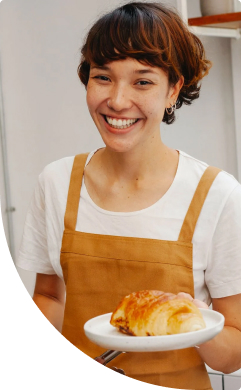
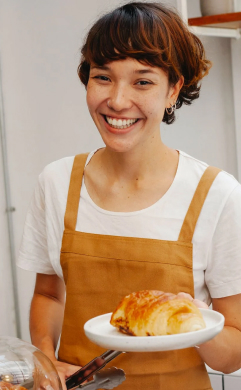
Add files via upload

Changed region(s): [[0.0, 0.5231, 0.8133, 1.0], [0.9876, 0.9846, 1.0, 1.0], [0.9876, 0.0, 1.0, 0.0308]]

diff --git a/css/style.css b/css/style.css
@@ -27,10 +27,12 @@
 }
 
 :root {
-	--color-brand-light: #819b57;
+	--color-brand-normal: #819b57;
 	--color-brand-dark: #465929;
 	--color-primary-dark: #31261a;
 	--color-primary-light: #faf4ea;
+	--color-brand-light: #cfcfbc;
+	--color-secondary-dark: #a28268;
 }
 /* Base */
 * {
@@ -38,6 +40,7 @@
 }
 body {
 	color: var(--color-primary-dark);
+	background-color: var(--color-primary-light);
 	font-family: "Poppins", sans-serif;
 	font-size: 18px;
 	font-weight: 400;
@@ -82,8 +85,8 @@ ul {
 	padding: 16px 32px;
 	color: var(--color-primary-light);
 	font-weight: 600;
-	background: var(--color-brand-light);
-	border: 2px solid var(--color-brand-light);
+	background: var(--color-brand-normal);
+	border: 2px solid var(--color-brand-normal);
 	border-radius: 8px;
 	cursor: pointer;
 }
@@ -100,7 +103,7 @@ ul {
 }
 
 .link:hover {
-	color: var(--color-brand-light);
+	color: var(--color-brand-normal);
 }
 /* header */
 .header-menu {
@@ -126,6 +129,10 @@ ul {
 /* Hero section */
 .hero-section {
 	padding: 272px 0;
+	background-image: url("../images/hero-background.jpg");
+	background-repeat: no-repeat;
+	background-position: center top;
+	background-size: cover;
 }
 .hero-title {
 	margin-bottom: 0;
@@ -137,12 +144,12 @@ ul {
 }
 
 .hero-title .accent {
-	color: var(--color-brand-light);
+	color: var(--color-brand-normal);
 }
 /* Advantages section */
 .advanteges-section {
 	padding: 16px 0;
-	background-color: var(--color-brand-light);
+	background-color: var(--color-brand-normal);
 }
 .advanteges-list {
 	gap: 40px;
@@ -159,7 +166,10 @@ ul {
 /* Title section */
 
 .section-title .accent {
-	color: var(--color-brand-light);
+	color: var(--color-brand-normal);
+}
+.section-title.centered {
+	text-align: center;
 }
 .section-title {
 	font-size: 64px;
@@ -183,19 +193,32 @@ ul {
 }
 .traditions-text .uppercase {
 	text-transform: uppercase;
-	color: var(--color-brand-light);
+	color: var(--color-brand-normal);
 	font-weight: 600;
 }
 .traditions-text .brand {
-	color: var(--color-brand-light);
+	color: var(--color-brand-normal);
 }
 .traditions-text.limited {
 	max-width: 340px;
 }
 
 /* chef section */
+.chef-image {
+	border-radius: 4px 4px 4px 200px;
+	box-shadow: -16px 16px 0 0 var(--color-primary-light),
+		-16px 16px 0 2px var(--color-secondary-dark);
+}
 .nashi-kuhari {
-	margin-bottom: 80px;
+	max-width: 520px;
+	margin: 0 auto 80px;
+}
+.nashi-kuhari::after,
+.nashi-kuhari::before {
+	display: block;
+	width: 352px;
+	border: 2px solid var(--color-brand-light);
+	content: "";
 }
 .chef-title {
 	margin-bottom: 16px;
@@ -212,9 +235,16 @@ ul {
 	flex-wrap: wrap;
 }
 .format-card {
+	height: 444px;
 	padding: 24px;
 	border: 1px solid lightgray;
 	border-radius: 16px; /* remove  */
+	background-image: linear-gradient(
+		180deg,
+		rgba(49, 38, 26, 0) 55.21%,
+		rgba(49, 38, 26, 0.71) 72.92%,
+		var(--color-primary-dark) 100%
+	);
 }
 .formati {
 	margin-bottom: 80px;
@@ -235,7 +265,7 @@ ul {
 	text-decoration: none;
 }
 .adress-link:hover {
-	color: var(--color-brand-light);
+	color: var(--color-brand-normal);
 }
 .adress-copyright {
 	font-size: 14px;
@@ -243,4 +273,12 @@ ul {
 /* Kontakti */
 .kontakti {
 	margin-bottom: 16px;
+}
+/* footer */
+.footer {
+	background-color: var(--color-primary-dark);
+	background-image: url("../images/footer-background.png");
+	background-repeat: no-repeat;
+	background-size: cover;
+	background-position: center;
 }

diff --git a/index.html b/index.html
@@ -69,23 +69,24 @@
 					</div>
 				</div>
 			</section>
-			<section class="nashi-kuhari section" id="nashi-kuhari">
+			<section class="section" id="nashi-kuhari">
 				<div class="container">
-					<h2 class="section-title">
+					<h2 class="nashi-kuhari section-title centered">
 						Наші найкращі <span class="accent">шеф -кухарі</span>
 					</h2>
 					<ul>
 						<li>
 							<article>
+								<img class="chef-image" src="./images/nastya.jpg" alt="Настя" />
 								<h3 class="chef-title">Настя</h3>
 								<p>Привіт, я Настя!</p>
 								<p>Вже 10 років, я свтілюю у життя цікаві та смачні ідеї.</p>
 								<p>Я випічу для вас найсмачніщі вироби!</p>
-								<img src="./images/nastya.jpg" alt="Настя" />
 							</article>
 						</li>
 						<li>
 							<article>
+								<img class="chef-image" src="./images/vlad.jpg" alt="Влад" />
 								<h3 class="chef-title">Влад</h3>
 								<p>Привіт, я Влад!</p>
 								<p>
@@ -93,7 +94,6 @@
 									любов, з якою ми ділимось кожен раз з Вами через нашу випічку!
 								</p>
 								<p>Я зроблю для вас унікальну начинку на будь який смак!</p>
-								<img src="./images/vlad.jpg" alt="Влад" />
 							</article>
 						</li>
 					</ul>
@@ -101,7 +101,7 @@
 			</section>
 			<section class="formati section" id="formati">
 				<div class="container">
-					<h2 class="section-title">Формати</h2>
+					<h2 class="section-title centered">Формати</h2>
 					<ul class="formats-list">
 						<li class="formats-item">
 							<article class="format-card">
@@ -157,7 +157,7 @@
 				</div>
 			</section>
 		</main>
-		<footer>
+		<footer class="footer">
 			<div class="container">
 				<nav>
 					<a href=""
